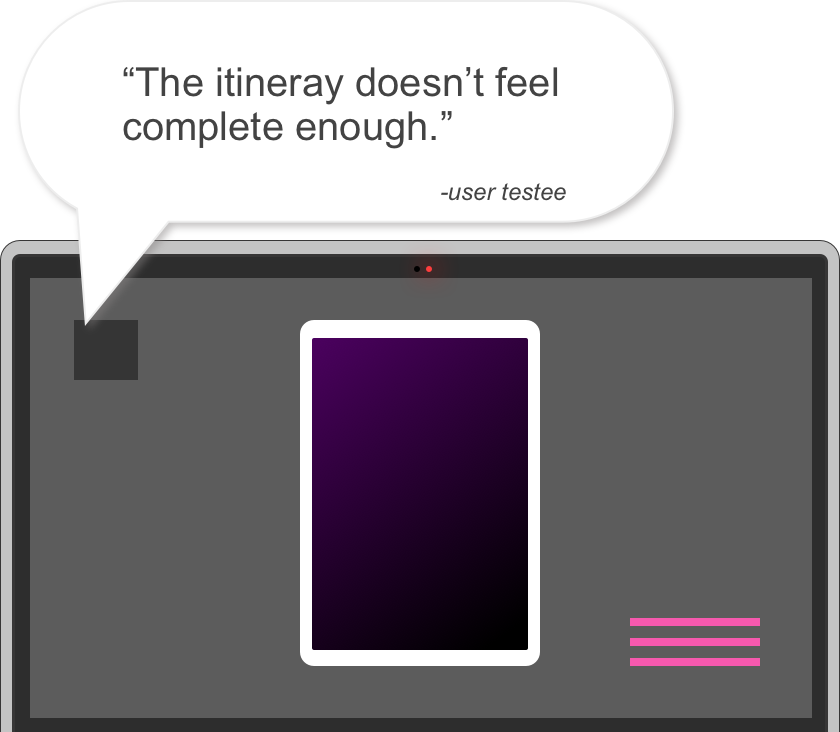
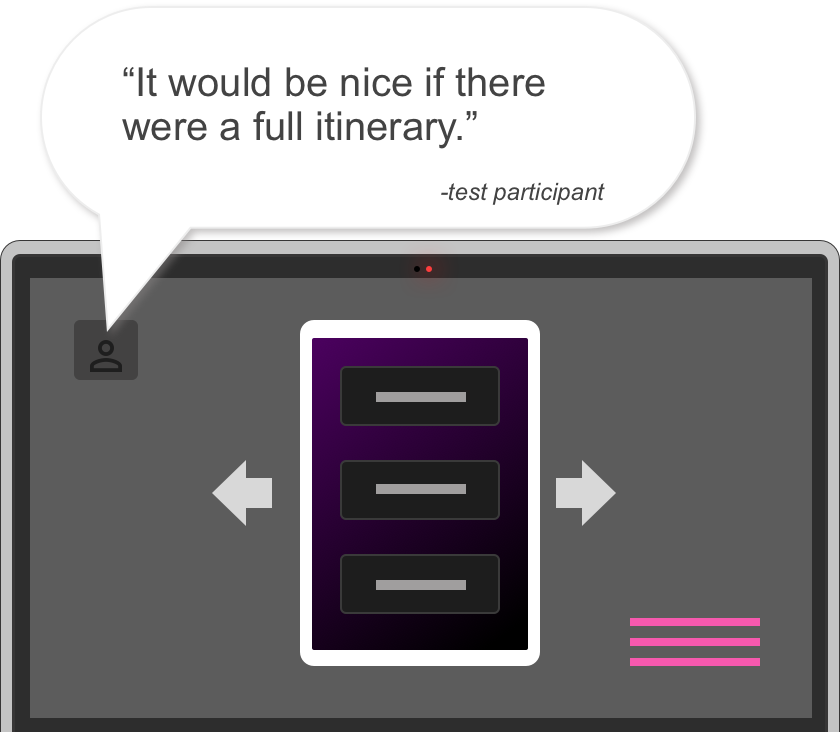
save

diff --git a/Projects/transit.html b/Projects/transit.html
@@ -223,13 +223,27 @@
           </div>
           <div id="improvements-row-content">
             <div class="">
-              <!-- <h3>User Observation Task</h3>
-              <p>I conducted user testing</p> -->
-            </div>
-            <div class="">
               <img id = "testee-image" src="../assets/images/transit-displays/testee.png" alt="">
             </div>
+            <div class="">
+              <h3>User Testing</h3>
+              <p>Upon observing my <span class = "bolden">research participant</span> perform the task of <span class = "bolden">scheduling a trip from Rahway Junction (Station) to Brainstation, New York</span>, there were a few focus points which stood out:</p>
+              <ul>
+                <li>I need to redesign the use of radio buttons and checkboxes to meet best practices (checkboxes for multiple selections &amp radio buttons for one selection)</li>
+                <li>After the user selects his or her final destination and the means of arrival, there should be a way to filter the results (e.g. by time, distance, transfers ect.)</li>
+                <li>After their trip has been planned, there should be a complete itinerary of the steps he or she will take in order to travel successfully. The ability to take a screenshot of the whole forecasted trip would be nice for the user to have on hand</li>
+                <li>The application is fairly structured and although it is very streamlined, it makes information not accessible to the user</li>
+              </ul>
+            </div>
           </div>
+        </div>
+      </div>
+      <div class="row" id = "iteration-2-high-fidelities">
+        <div class="">
+          <h3>High Fidelity Mockups</h3>
+        </div>
+        <div class="">
+          <img src="../assets/images/transit-displays/High-Fi-2.png" alt="iteration-2-high-fidelity">
         </div>
       </div>
     </div>

diff --git a/assets/css/Transit-CSS-Mast/transit.css b/assets/css/Transit-CSS-Mast/transit.css
@@ -57,7 +57,7 @@ p{
 
 .bolden{
   font-weight:bold;
-  font-size:13pt;
+  font-size:12pt;
 }
 
 #splash{
@@ -256,15 +256,30 @@ p{
   background-color: #E9E5EF;
   padding:3.5em 0 7em 0;
 }
-#improvements-row-content{
-  margin-top:5em;
-}
-#improvements-row-content > div:nth-child(1){
-  
-}
 #testee-image{
   width:50vw;
   height:66vh;
   margin-top:2.5em;
   margin:auto;
+}
+#improvements-row-content{
+  margin-top:5em;
+}
+#improvements-row-content > div:nth-child(2){
+  width:50%;
+  margin:auto;
+  margin-top:5em;
+}
+#improvements-row-content > div:nth-child(2) > ul{
+  list-style-type: disc;
+  text-align: left;
+  line-height: 25px;
+}
+/*----------------- Iteration 2 High fidelity ------------------*/
+#iteration-2-high-fidelities > div:nth-child(2){
+  width:100%;
+  margin:auto;
+}
+#iteration-2-high-fidelities > div:nth-child(2) > img{
+  width:85%;;
 }

diff --git a/assets/css/Transit-CSS-Mast/transit-media.css b/assets/css/Transit-CSS-Mast/transit-media.css
@@ -166,4 +166,25 @@
     height:90vh;
     width:90%;
   }
+  /*----------------- Takeaways ------------------*/
+  #improvements-row-background{
+
+  }
+  #improvements-row-content{
+    margin-top:5em;
+  }
+  #improvements-row-content > div:nth-child(1){
+
+  }
+  #improvements-row-content > div:nth-child(2){
+    width:90%;
+    margin:auto;
+    margin-top:2.5em;
+  }
+  #testee-image{
+    width:90vw;
+    height:66vh;
+    margin-top:2.5em;
+    margin:auto;
+  }
 }
